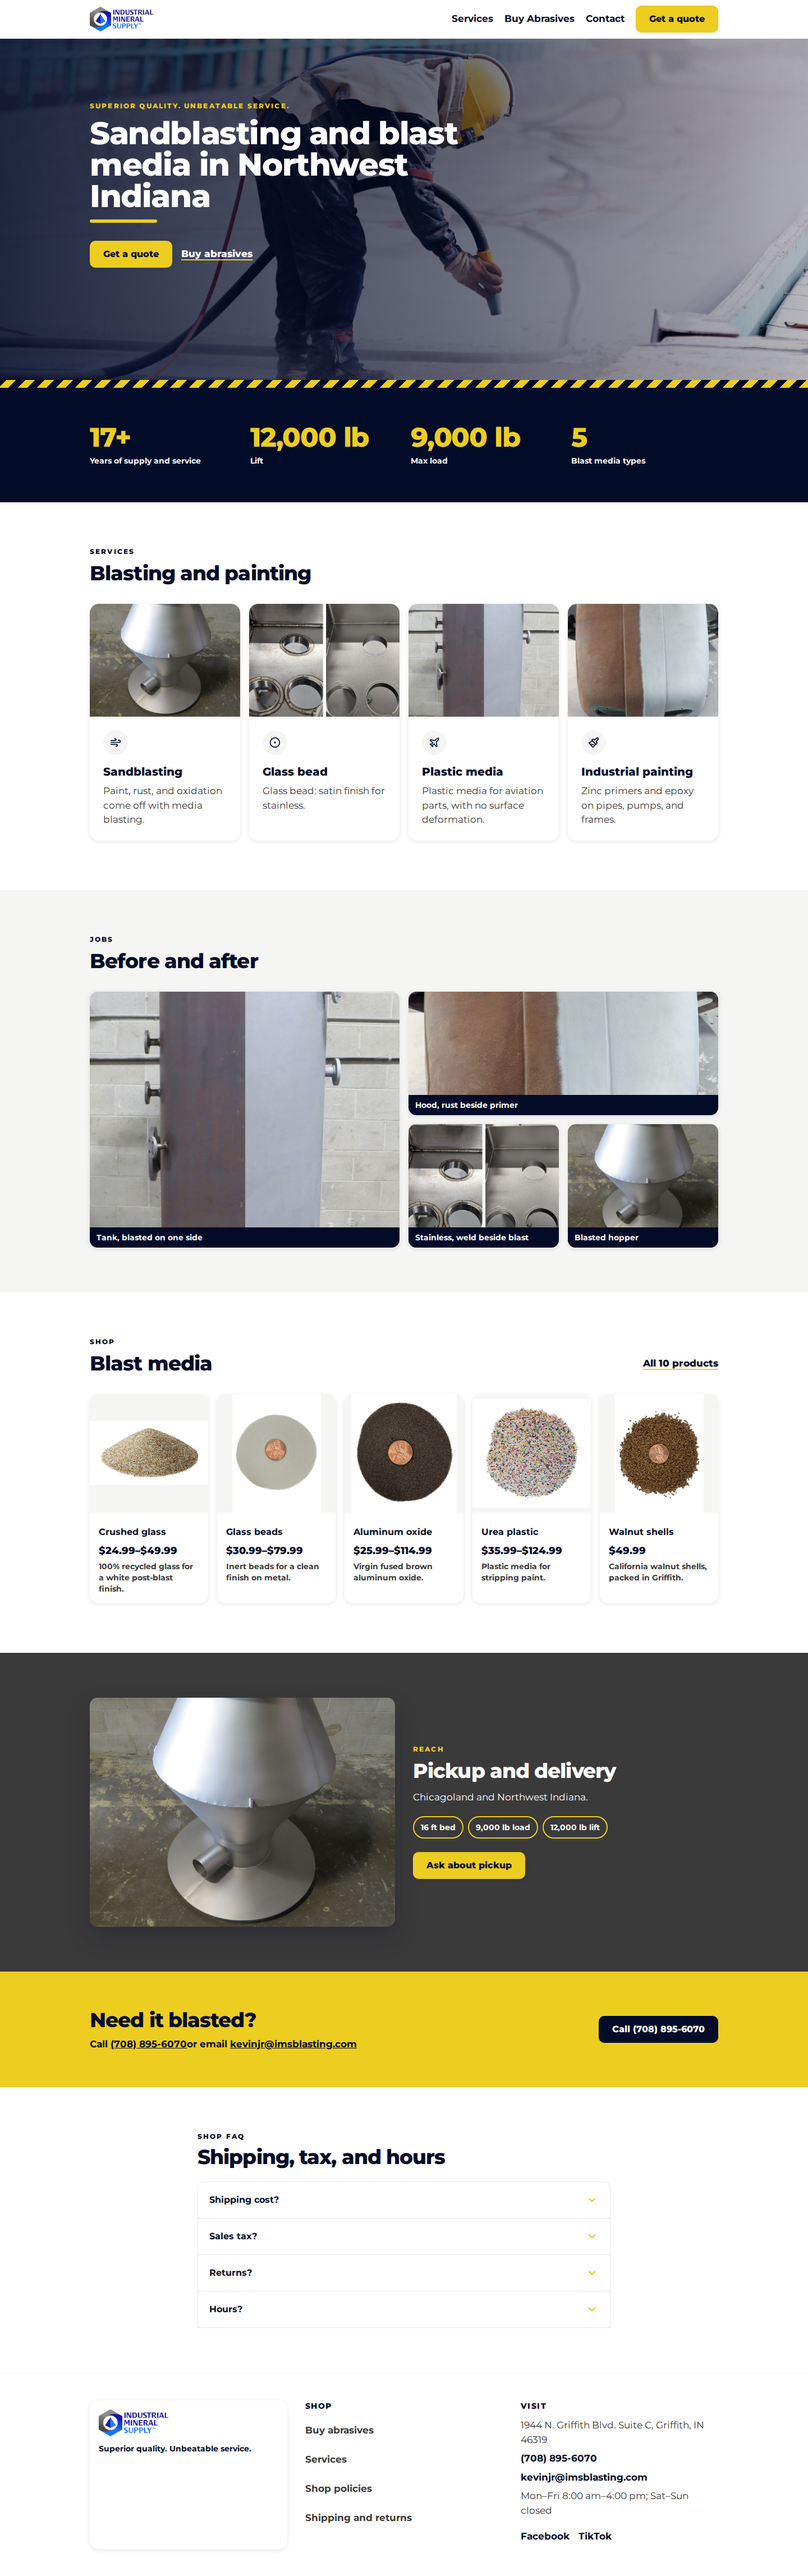
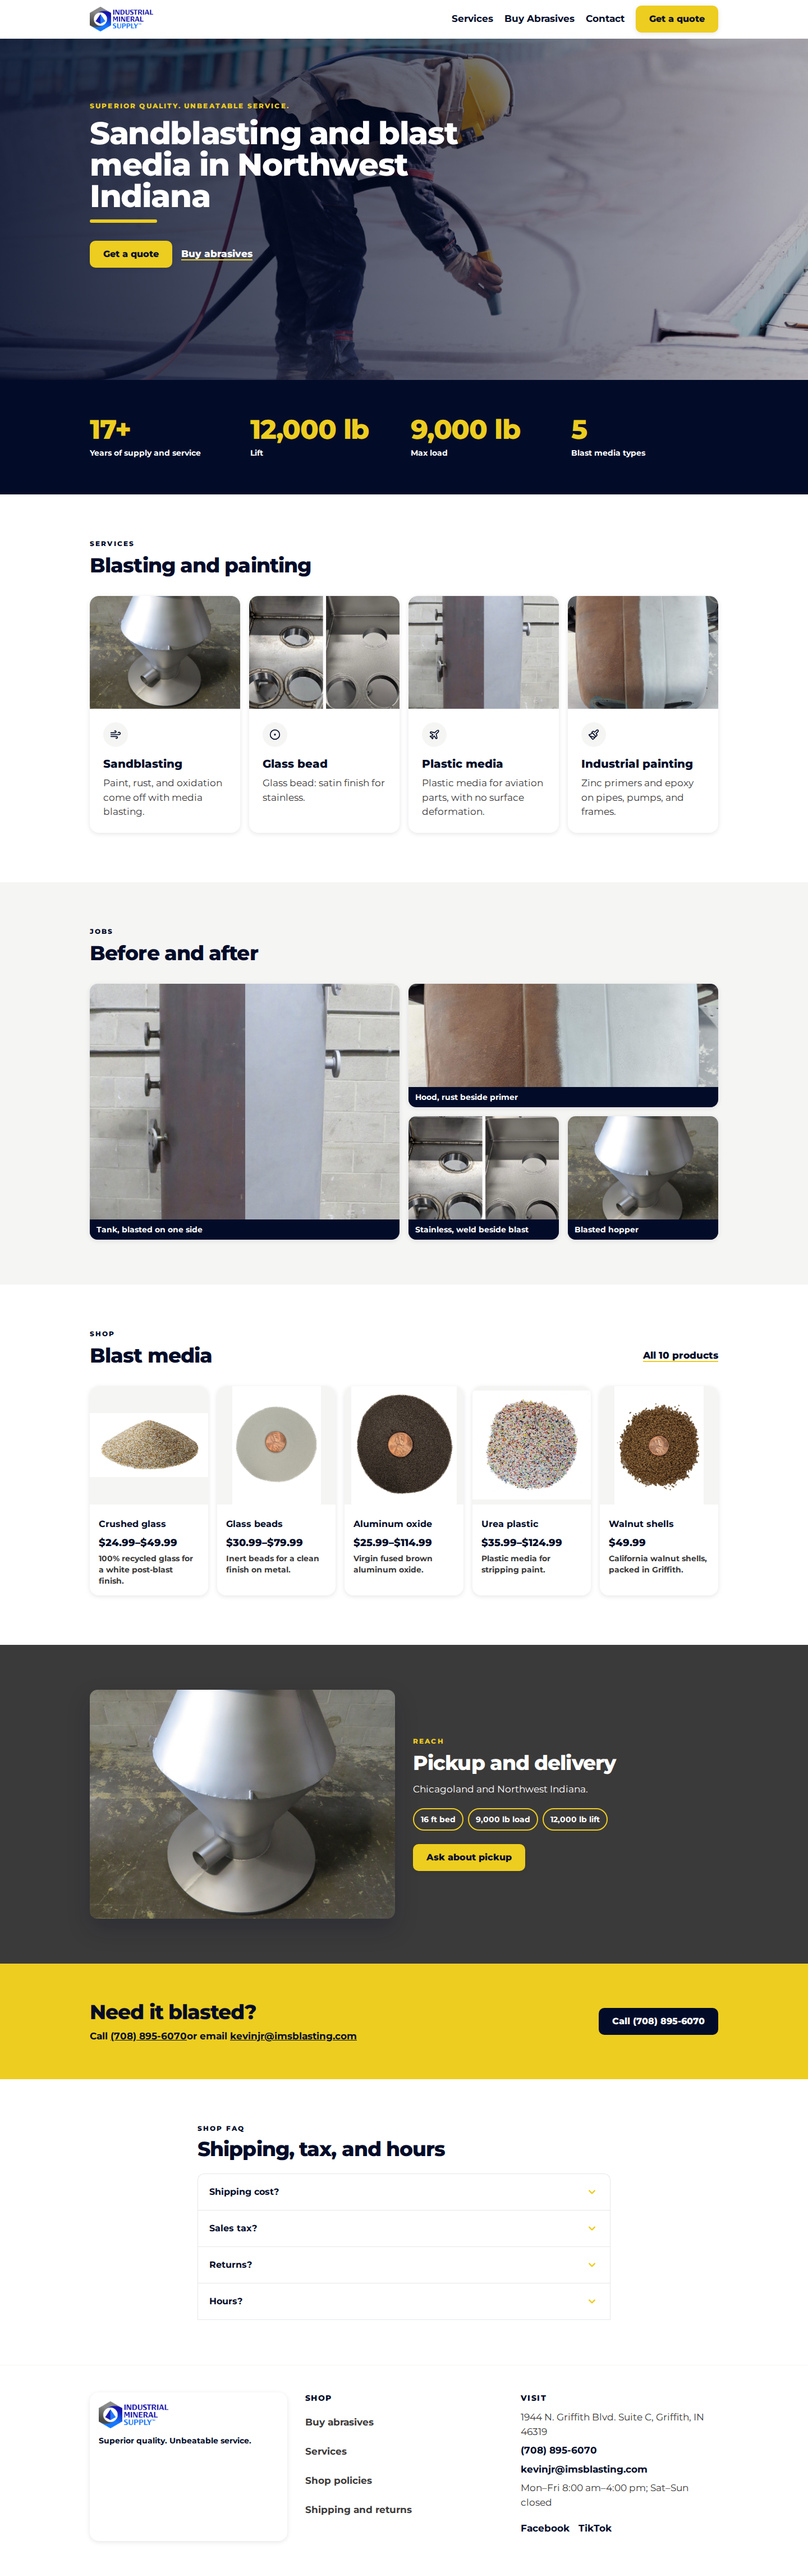
fix: drop the hazard stripe from the proof band
The navy proof band now meets the next section by background and spacing only.

diff --git a/src/styles/global.css b/src/styles/global.css
@@ -99,11 +99,6 @@
   }
 }
 
-.hazard-edge {
-  height: 14px;
-  background: repeating-linear-gradient(-45deg, #edcd1f 0 12px, #020c29 12px 24px);
-}
-
 .snap-row {
   display: flex;
   gap: 1rem;

diff --git a/qa/design-plan.md b/qa/design-plan.md
@@ -4,7 +4,7 @@ Tokens: navy `#020C29`, accent `#EDCD1F` (CTAs, stat numerals, active underline,
 
 Hero: full-bleed outdoor blaster photo, left-weighted navy scrim, white headline, yellow primary quote button, text link to the shop. Headline rises 450ms; yellow underline wipes. Off under reduced motion. No split hero.
 
-Signature: proof band, huge yellow numerals on navy (17+ years, 12,000 lb lift, 9,000 lb load, 5 media types) with a diagonal hazard-stripe edge.
+Signature: proof band, huge yellow numerals on navy (17+ years, 12,000 lb lift, 9,000 lb load, 5 media types).
 
 Home bands and phone layout: photo hero (stack); navy stat band (2-up); white photo service cards (snap scroller); tint mosaic (carousel); white product row with photos and a yellow hover bar (scroller); charcoal delivery split (stack); yellow quote strip (stack); white FAQ accordion. Cards differ: photo cards, stat tiles, mosaic, product photos, chips.
 

diff --git a/qa/design-check.md b/qa/design-check.md
@@ -8,7 +8,7 @@ Compared full-page light screenshots of Home and /shop at 390 and 1440 with `bri
 4. Home bands follow photo, navy, white, tint, white, charcoal, yellow, white. true
 5. Phone sections with 4 or more items use a snap scroller, carousel, 2-up product grid, or accordion. true
 6. Home has a photo hero, stat tiles, photo service cards, mosaic, product photos, chips, and an FAQ. Product cards show photos. true
-7. The hazard-stripe proof band with huge yellow numerals is on the home page. true
+7. The proof band with huge yellow numerals is on the home page. true
 8. Flowbite buttons, badges, tabs, accordion, carousel, and sidebar use the navy and yellow theme. true
 9. None of the banned patterns are on the page. true
 10. The page reads as the navy-and-safety-yellow board, with real job and product photos. true
